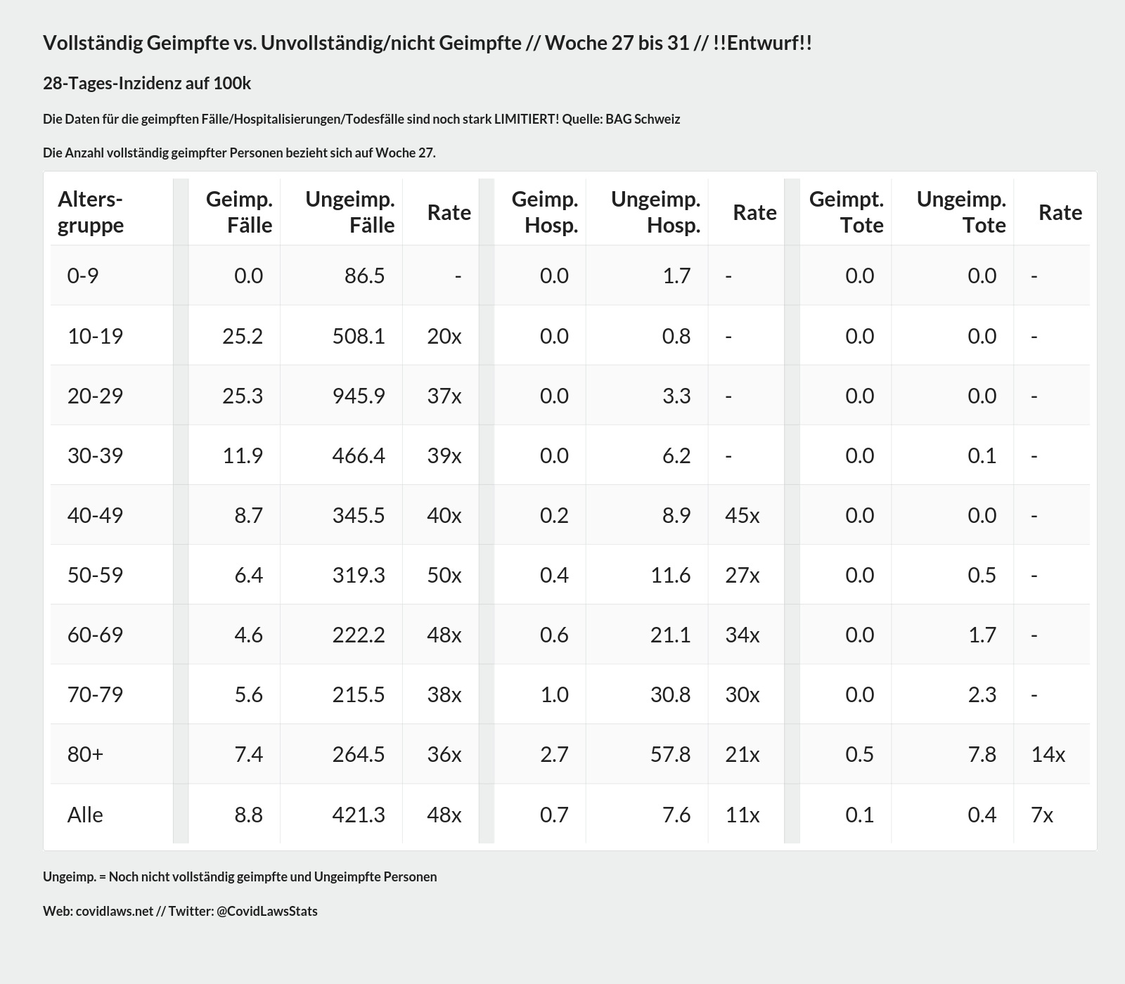
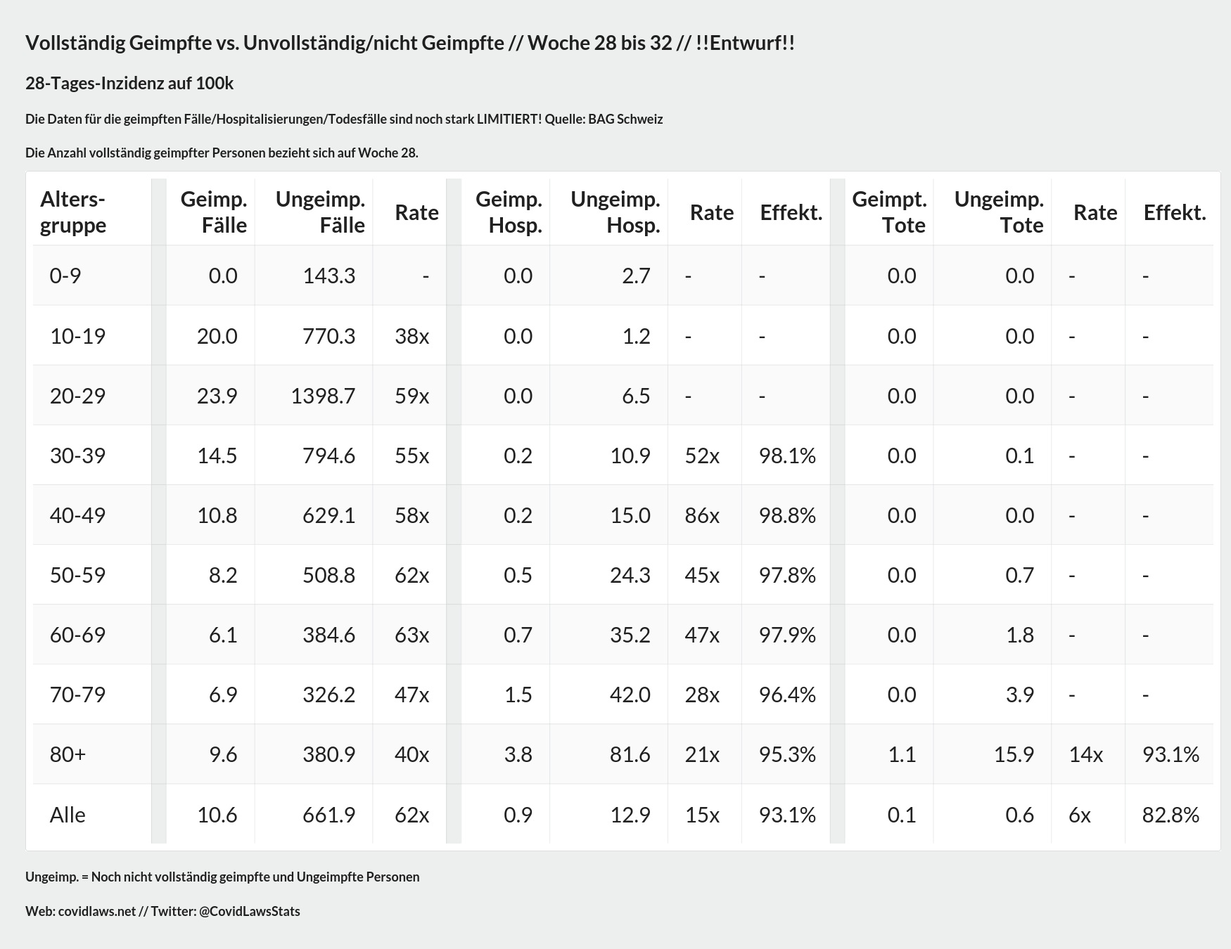
Update covidmeter

diff --git a/measuremeterdata/tasks/socialmedia/tweet_vacc.py b/measuremeterdata/tasks/socialmedia/tweet_vacc.py
@@ -473,104 +473,139 @@ def create_image(week):
         inz_nonvacchosp_alle = 100000 * nonvacchosp_tot_alle / tot_nonvacc_alle
 
         rel_hosp_0_9 = None
+        eff_hosp_0_9 = None
         try:
             rel_hosp_0_9 = inz_nonvacchosp_0_9 / inz_vacchosp_0_9
+            eff_hosp_0_9 = (inz_nonvacchosp_0_9 - inz_vacchosp_0_9) / inz_nonvacchosp_0_9 * 100
         except:
             pass
         if rel_hosp_0_9:
-            rel_hosp_10_19_str = "{0:.0f}".format(rel_hosp_0_9) + "x"
+            rel_hosp_0_9_str = "{0:.0f}".format(rel_hosp_0_9) + "x"
+            eff_hosp_0_9_str = "{0:.1f}".format(eff_hosp_0_9) + "%"
         else:
             rel_hosp_0_9_str = "-"
+            eff_hosp_0_9_str = "-"
 
         rel_hosp_10_19 = None
+        eff_hosp_10_19 = None
         try:
             rel_hosp_10_19 = inz_nonvacchosp_10_19 / inz_vacchosp_10_19
+            eff_hosp_10_19 = (inz_nonvacchosp_10_19 - inz_vacchosp_10_19) / inz_nonvacchosp_10_19 * 100
         except:
             pass
         if rel_hosp_10_19:
             rel_hosp_10_19_str = "{0:.0f}".format(rel_hosp_10_19) + "x"
+            eff_hosp_10_19_str = "{0:.1f}".format(eff_hosp_10_19) + "%"
         else:
             rel_hosp_10_19_str = "-"
+            eff_hosp_10_19_str = "-"
 
         rel_hosp_20_29 = None
+        eff_hosp_20_29 = None
         try:
             rel_hosp_20_29 = inz_nonvacchosp_20_29 / inz_vacchosp_20_29
+            eff_hosp_20_29 = (inz_nonvacchosp_20_29 - inz_vacchosp_20_29) / inz_nonvacchosp_20_29 * 100
         except:
             pass
         if rel_hosp_20_29:
             rel_hosp_20_29_str = "{0:.0f}".format(rel_hosp_20_29) + "x"
+            eff_hosp_20_29_str = "{0:.1f}".format(eff_hosp_20_29) + "%"
         else:
             rel_hosp_20_29_str = "-"
+            eff_hosp_20_29_str = "-"
 
         rel_hosp_30_39 = None
+        eff_hosp_30_39 = None
         try:
             rel_hosp_30_39 = inz_nonvacchosp_30_39 / inz_vacchosp_30_39
+            eff_hosp_30_39 = (inz_nonvacchosp_30_39 - inz_vacchosp_30_39) / inz_nonvacchosp_30_39 * 100
         except:
             pass
         if rel_hosp_30_39:
             rel_hosp_30_39_str = "{0:.0f}".format(rel_hosp_30_39) + "x"
+            eff_hosp_30_39_str = "{0:.1f}".format(eff_hosp_30_39) + "%"
         else:
             rel_hosp_30_39_str = "-"
+            eff_hosp_30_39_str = "-"
 
         rel_hosp_40_49 = None
+        eff_hosp_40_49 = None
         try:
             rel_hosp_40_49 = inz_nonvacchosp_40_49 / inz_vacchosp_40_49
+            eff_hosp_40_49 = (inz_nonvacchosp_40_49 - inz_vacchosp_40_49) / inz_nonvacchosp_40_49 * 100
         except:
             pass
         if rel_hosp_40_49:
             rel_hosp_40_49_str = "{0:.0f}".format(rel_hosp_40_49) + "x"
+            eff_hosp_40_49_str = "{0:.1f}".format(eff_hosp_40_49) + "%"
         else:
             rel_hosp_40_49_str = "-"
+            eff_hosp_40_49_str = "-"
 
         rel_hosp_50_59 = None
         try:
             rel_hosp_50_59 = inz_nonvacchosp_50_59 / inz_vacchosp_50_59
+            eff_hosp_50_59 = (inz_nonvacchosp_50_59 - inz_vacchosp_50_59) / inz_nonvacchosp_50_59 * 100
         except:
             pass
         if rel_hosp_50_59:
             rel_hosp_50_59_str = "{0:.0f}".format(rel_hosp_50_59) + "x"
+            eff_hosp_50_59_str = "{0:.1f}".format(eff_hosp_50_59) + "%"
         else:
             rel_hosp_50_59_str = "-"
+            eff_hosp_50_59_str = "-"
 
         rel_hosp_60_69 = None
         try:
             rel_hosp_60_69 = inz_nonvacchosp_60_69 / inz_vacchosp_60_69
+            eff_hosp_60_69 = (inz_nonvacchosp_60_69 - inz_vacchosp_60_69) / inz_nonvacchosp_60_69 * 100
         except:
             pass
         if rel_hosp_60_69:
             rel_hosp_60_69_str = "{0:.0f}".format(rel_hosp_60_69) + "x"
+            eff_hosp_60_69_str = "{0:.1f}".format(eff_hosp_60_69) + "%"
         else:
             rel_hosp_60_69_str = "-"
+            eff_hosp_60_69_str = "-"
 
         rel_hosp_70_79 = None
         try:
             rel_hosp_70_79 = inz_nonvacchosp_70_79 / inz_vacchosp_70_79
+            eff_hosp_70_79 = (inz_nonvacchosp_70_79 - inz_vacchosp_70_79) / inz_nonvacchosp_70_79 * 100
         except:
             pass
         if rel_hosp_70_79:
             rel_hosp_70_79_str = "{0:.0f}".format(rel_hosp_70_79) + "x"
+            eff_hosp_70_79_str = "{0:.1f}".format(eff_hosp_70_79) + "%"
         else:
             rel_hosp_70_79_str = "-"
+            eff_hosp_70_79_str = "-"
 
         rel_hosp_80plus = None
         try:
             rel_hosp_80plus = inz_nonvacchosp_80plus / inz_vacchosp_80plus
+            eff_hosp_80plus = (inz_nonvacchosp_80plus - inz_vacchosp_80plus) / inz_nonvacchosp_80plus * 100
         except:
             pass
         if rel_hosp_80plus:
             rel_hosp_80plus_str = "{0:.0f}".format(rel_hosp_80plus) + "x"
+            eff_hosp_80plus_str = "{0:.1f}".format(eff_hosp_80plus) + "%"
         else:
             rel_hosp_80plus_str = "-"
+            eff_hosp_80plus_str = "-"
 
         rel_hosp_alle = None
         try:
             rel_hosp_alle = inz_nonvacchosp_alle / inz_vacchosp_alle
+            eff_hosp_alle = (inz_nonvacchosp_alle - inz_vacchosp_alle) / inz_nonvacchosp_alle * 100
         except:
             pass
         if rel_hosp_alle:
             rel_hosp_alle_str = "{0:.0f}".format(rel_hosp_alle) + "x"
+            eff_hosp_alle_str = "{0:.1f}".format(eff_hosp_alle) + "%"
         else:
             rel_hosp_alle_str = "-"
+            eff_hosp_alle_str = "-"
 
         #Death ------------------------------------------------------------------------
 
@@ -632,102 +667,132 @@ def create_image(week):
         rel_death_0_9 = None
         try:
             rel_death_0_9 = inz_nonvaccdeath_0_9 / inz_vaccdeath_0_9
+            eff_death_0_9 = (inz_nonvaccdeath_0_9 - inz_vaccdeath_0_9) / inz_nonvaccdeath_0_9 * 100
         except:
             pass
         if rel_death_0_9:
-            rel_death_10_19_str = "{0:.0f}".format(rel_death_0_9) + "x"
+            rel_death_0_9_str = "{0:.0f}".format(rel_death_0_9) + "x"
+            eff_death_0_9_str = "{0:.1f}".format(eff_death_0_9) + "%"
         else:
             rel_death_0_9_str = "-"
+            eff_death_0_9_str = "-"
 
         rel_death_10_19 = None
         try:
             rel_death_10_19 = inz_nonvaccdeath_10_19 / inz_vaccdeath_10_19
+            eff_death_10_19 = (inz_nonvaccdeath_10_19 - inz_vaccdeath_10_19) / inz_nonvaccdeath_10_19 * 100
         except:
             pass
         if rel_death_10_19:
             rel_death_10_19_str = "{0:.0f}".format(rel_death_10_19) + "x"
+            eff_death_10_19_str = "{0:.1f}".format(eff_death_10_19) + "%"
         else:
             rel_death_10_19_str = "-"
+            eff_death_10_19_str = "-"
 
         rel_death_20_29 = None
         try:
             rel_death_20_29 = inz_nonvaccdeath_20_29 / inz_vaccdeath_20_29
+            eff_death_20_29 = (inz_nonvaccdeath_20_29 - inz_vaccdeath_20_29) / inz_nonvaccdeath_20_29 * 100
         except:
             pass
         if rel_death_20_29:
             rel_death_20_29_str = "{0:.0f}".format(rel_death_20_29) + "x"
+            eff_death_20_29_str = "{0:.1f}".format(eff_death_20_29) + "%"
         else:
             rel_death_20_29_str = "-"
+            eff_death_20_29_str = "-"
 
         rel_death_30_39 = None
         try:
             rel_death_30_39 = inz_nonvaccdeath_30_39 / inz_vaccdeath_30_39
+            eff_death_30_39 = (inz_nonvaccdeath_30_39 - inz_vaccdeath_30_39) / inz_nonvaccdeath_30_39 * 100
         except:
             pass
         if rel_death_30_39:
             rel_death_30_39_str = "{0:.0f}".format(rel_death_30_39) + "x"
+            eff_death_30_39_str = "{0:.1f}".format(eff_death_30_39) + "%"
         else:
             rel_death_30_39_str = "-"
+            eff_death_30_39_str = "-"
 
         rel_death_40_49 = None
         try:
             rel_death_40_49 = inz_nonvaccdeath_40_49 / inz_vaccdeath_40_49
+            eff_death_40_49 = (inz_nonvaccdeath_40_49 - inz_vaccdeath_40_49) / inz_nonvaccdeath_40_49 * 100
         except:
             pass
         if rel_death_40_49:
             rel_death_40_49_str = "{0:.0f}".format(rel_death_40_49) + "x"
+            eff_death_40_49_str = "{0:.1f}".format(eff_death_40_49) + "%"
         else:
             rel_death_40_49_str = "-"
+            eff_death_40_49_str = "-"
 
         rel_death_50_59 = None
         try:
             rel_death_50_59 = inz_nonvaccdeath_50_59 / inz_vaccdeath_50_59
+            eff_death_50_59 = (inz_nonvaccdeath_50_59 - inz_vaccdeath_50_59) / inz_nonvaccdeath_50_59 * 100
         except:
             pass
         if rel_death_50_59:
             rel_death_50_59_str = "{0:.0f}".format(rel_death_50_59) + "x"
+            eff_death_50_59_str = "{0:.1f}".format(eff_death_50_59) + "%"
         else:
             rel_death_50_59_str = "-"
+            eff_death_50_59_str = "-"
 
         rel_death_60_69 = None
         try:
             rel_death_60_69 = inz_nonvaccdeath_60_69 / inz_vaccdeath_60_69
+            eff_death_60_69 = (inz_nonvaccdeath_60_69 - inz_vaccdeath_60_69) / inz_nonvaccdeath_60_69 * 100
         except:
             pass
         if rel_death_60_69:
             rel_death_60_69_str = "{0:.0f}".format(rel_death_60_69) + "x"
+            eff_death_60_69_str = "{0:.1f}".format(eff_death_60_69) + "%"
         else:
             rel_death_60_69_str = "-"
+            eff_death_60_69_str = "-"
 
         rel_death_70_79 = None
         try:
             rel_death_70_79 = inz_nonvaccdeath_70_79 / inz_vaccdeath_70_79
+            eff_death_70_79 = (inz_nonvaccdeath_70_79 - inz_vaccdeath_70_79) / inz_nonvaccdeath_70_79 * 100
         except:
             pass
         if rel_death_70_79:
             rel_death_70_79_str = "{0:.0f}".format(rel_death_70_79) + "x"
+            eff_death_70_79_str = "{0:.1f}".format(eff_death_70_79) + "%"
         else:
             rel_death_70_79_str = "-"
+            eff_death_70_79_str = "-"
 
         rel_death_80plus = None
         try:
             rel_death_80plus = inz_nonvaccdeath_80plus / inz_vaccdeath_80plus
+            eff_death_80plus = (inz_nonvaccdeath_80plus - inz_vaccdeath_80plus) / inz_nonvaccdeath_80plus * 100
         except:
             pass
         if rel_death_80plus:
             rel_death_80plus_str = "{0:.0f}".format(rel_death_80plus) + "x"
+            eff_death_80plus_str = "{0:.1f}".format(eff_death_80plus) + "%"
         else:
             rel_death_80plus_str = "-"
+            eff_death_80plus_str = "-"
 
         rel_death_alle = None
         try:
             rel_death_alle = inz_nonvaccdeath_alle / inz_vaccdeath_alle
+            eff_death_alle = (inz_nonvaccdeath_alle - inz_vaccdeath_alle) / inz_nonvaccdeath_alle * 100
         except:
             pass
         if rel_death_alle:
             rel_death_alle_str = "{0:.0f}".format(rel_death_alle) + "x"
+            eff_death_alle_str = "{0:.1f}".format(eff_death_alle) + "%"
         else:
             rel_death_alle_str = "-"
+            eff_death_alle_str = "-"
 
         print("CSV:")
         print(f"Week {week -4} to {week}")
@@ -748,7 +813,7 @@ def create_image(week):
 
     html = f'<html><head><meta charset="UTF-8" /><link rel="stylesheet" href="https://cdnjs.cloudflare.com/ajax/libs/semantic-ui/2.4.1/semantic.min.css"/><script src="https://cdnjs.cloudflare.com/ajax/libs/semantic-ui/2.4.1/semantic.min.js"></script>' \
            '<style>table, th, td { padding: 10px; font-size: 14; }' \
-            '.columnl { float: left; width: 80px; } .columnr { float: left; width: 1500px; }/* Clear floats after the columns */ .row:after {   content: "";   display: table;   clear: both; }' \
+            '.columnl { float: left; width: 80px; } .columnr { float: left; width: 1600px; }/* Clear floats after the columns */ .row:after {   content: "";   display: table;   clear: both; }' \
             '#rotate-text { width: 45px; transform: rotate(90deg); }' \
     '.table td, .table th {'\
         'font-size: 30px;'\
@@ -762,7 +827,7 @@ def create_image(week):
            f'<h2>28-Tages-Inzidenz auf 100k</h2>' \
            '<h3>Die Daten für die geimpften Fälle/Hospitalisierungen/Todesfälle sind noch stark LIMITIERT! Quelle: BAG Schweiz</h3>' \
            f'<h3>Die Anzahl vollständig geimpfter Personen bezieht sich auf Woche {week-4}.</h3>' \
-           '<table class="ui celled table striped" style="width: 1500px;table-layout:fixed">' \
+           '<table class="ui celled table striped" style="width: 1700px;table-layout:fixed">' \
            '<colgroup>' \
            '<col style="width: 80px;">' \
            '<col style="width: 10px">' \
@@ -773,10 +838,12 @@ def create_image(week):
            '<col style="width: 60px">' \
            '<col style="width: 80px">' \
            '<col style="width: 50px">' \
+           '<col style="width: 60px">' \
            '<col style="width: 10px">' \
            '<col style="width: 60px">' \
            '<col style="width: 80px">' \
            '<col style="width: 50px">' \
+           '<col style="width: 60px">' \
            '</colgroup>' \
            '<tr><th>Alters- gruppe</th>' \
            '<th  style="background-color:#edefee;"></th>' \
@@ -787,26 +854,28 @@ def create_image(week):
            '<th class="right aligned">Geimp. Hosp.</th>' \
            '<th class="right aligned">Ungeimp. Hosp.</th>' \
            '<th class="right aligned">Rate</th>' \
+           '<th class="right aligned">Effekt.</th>' \
            '<th style="background-color:#edefee;"></th>' \
            '<th class="right aligned">Geimpt. Tote</th>' \
            '<th class="right aligned">Ungeimp. Tote</th>' \
            '<th class="right aligned">Rate</th>' \
+           '<th class="right aligned">Effekt.</th>' \
            '</tr>' \
-           f'<tr><td>0-9</td><td style="background-color:#edefee;"></td><td class="right aligned">{"{:10.1f}".format(inz_vacccases_0_9)}</td><td class="right aligned">{"{:10.1f}".format(inz_nonvacccases_0_9)}</td><td class="right aligned">{rel_cases_0_9_str}</td><td style="background-color:#edefee;"></td><td class="right aligned">{"{:10.1f}".format(inz_vacchosp_0_9)}</td><td class="right aligned">{"{:10.1f}".format(inz_nonvacchosp_0_9)}</td><td>{rel_hosp_0_9_str}</td><td style="background-color:#edefee;"></td><td class="right aligned">{"{:10.1f}".format(inz_vaccdeath_0_9)}</td><td class="right aligned">{"{:10.1f}".format(inz_nonvaccdeath_0_9)}</td><td>{rel_death_0_9_str}</td></tr>' \
-           f'<tr><td>10-19</td><td style="background-color:#edefee;"></td><td class="right aligned">{"{:10.1f}".format(inz_vacccases_10_19)}</td><td class="right aligned">{"{:10.1f}".format(inz_nonvacccases_10_19)}</td><td class="right aligned">{rel_cases_10_19_str}</td><td style="background-color:#edefee;"></td><td class="right aligned">{"{:10.1f}".format(inz_vacchosp_10_19)}</td><td class="right aligned">{"{:10.1f}".format(inz_nonvacchosp_10_19)}</td><td>{rel_hosp_10_19_str}</td><td style="background-color:#edefee;"></td><td class="right aligned">{"{:10.1f}".format(inz_vaccdeath_10_19)}</td><td class="right aligned">{"{:10.1f}".format(inz_nonvaccdeath_10_19)}</td><td>{rel_death_10_19_str}</td></tr>' \
-           f'<tr><td>20-29</td><td style="background-color:#edefee;"></td><td class="right aligned">{"{:10.1f}".format(inz_vacccases_20_29)}</td><td class="right aligned">{"{:10.1f}".format(inz_nonvacccases_20_29)}</td><td class="right aligned">{rel_cases_20_29_str}</td><td style="background-color:#edefee;"></td><td class="right aligned">{"{:10.1f}".format(inz_vacchosp_20_29)}</td><td class="right aligned">{"{:10.1f}".format(inz_nonvacchosp_20_29)}</td><td>{rel_hosp_20_29_str}</td><td style="background-color:#edefee;"></td><td class="right aligned">{"{:10.1f}".format(inz_vaccdeath_20_29)}</td><td class="right aligned">{"{:10.1f}".format(inz_nonvaccdeath_20_29)}</td><td>{rel_death_20_29_str}</td></tr>' \
-           f'<tr><td>30-39</td><td style="background-color:#edefee;"></td><td class="right aligned">{"{:10.1f}".format(inz_vacccases_30_39)}</td><td class="right aligned">{"{:10.1f}".format(inz_nonvacccases_30_39)}</td><td class="right aligned">{rel_cases_30_39_str}</td><td style="background-color:#edefee;"></td><td class="right aligned">{"{:10.1f}".format(inz_vacchosp_30_39)}</td><td class="right aligned">{"{:10.1f}".format(inz_nonvacchosp_30_39)}</td><td>{rel_hosp_30_39_str}</td><td style="background-color:#edefee;"></td><td class="right aligned">{"{:10.1f}".format(inz_vaccdeath_30_39)}</td><td class="right aligned">{"{:10.1f}".format(inz_nonvaccdeath_30_39)}</td><td>{rel_death_30_39_str}</td></tr>' \
-           f'<tr><td>40-49</td><td style="background-color:#edefee;"></td><td class="right aligned">{"{:10.1f}".format(inz_vacccases_40_49)}</td><td class="right aligned">{"{:10.1f}".format(inz_nonvacccases_40_49)}</td><td class="right aligned">{rel_cases_40_49_str}</td><td style="background-color:#edefee;"></td><td class="right aligned">{"{:10.1f}".format(inz_vacchosp_40_49)}</td><td class="right aligned">{"{:10.1f}".format(inz_nonvacchosp_40_49)}</td><td>{rel_hosp_40_49_str}</td><td style="background-color:#edefee;"></td><td class="right aligned">{"{:10.1f}".format(inz_vaccdeath_40_49)}</td><td class="right aligned">{"{:10.1f}".format(inz_nonvaccdeath_40_49)}</td><td>{rel_death_40_49_str}</td></tr>' \
-           f'<tr><td>50-59</td><td style="background-color:#edefee;"></td><td class="right aligned">{"{:10.1f}".format(inz_vacccases_50_59)}</td><td class="right aligned">{"{:10.1f}".format(inz_nonvacccases_50_59)}</td><td class="right aligned">{rel_cases_50_59_str}</td><td style="background-color:#edefee;"></td><td class="right aligned">{"{:10.1f}".format(inz_vacchosp_50_59)}</td><td class="right aligned">{"{:10.1f}".format(inz_nonvacchosp_50_59)}</td><td>{rel_hosp_50_59_str}</td><td style="background-color:#edefee;"></td><td class="right aligned">{"{:10.1f}".format(inz_vaccdeath_50_59)}</td><td class="right aligned">{"{:10.1f}".format(inz_nonvaccdeath_50_59)}</td><td>{rel_death_50_59_str}</td></tr>' \
-           f'<tr><td>60-69</td><td style="background-color:#edefee;"></td><td class="right aligned">{"{:10.1f}".format(inz_vacccases_60_69)}</td><td class="right aligned">{"{:10.1f}".format(inz_nonvacccases_60_69)}</td><td class="right aligned">{rel_cases_60_69_str}</td><td style="background-color:#edefee;"></td><td class="right aligned">{"{:10.1f}".format(inz_vacchosp_60_69)}</td><td class="right aligned">{"{:10.1f}".format(inz_nonvacchosp_60_69)}</td><td>{rel_hosp_60_69_str}</td><td style="background-color:#edefee;"></td><td class="right aligned">{"{:10.1f}".format(inz_vaccdeath_60_69)}</td><td class="right aligned">{"{:10.1f}".format(inz_nonvaccdeath_60_69)}</td><td>{rel_death_60_69_str}</td></tr>' \
-           f'<tr><td>70-79</td><td style="background-color:#edefee;"></td><td class="right aligned">{"{:10.1f}".format(inz_vacccases_70_79)}</td><td class="right aligned">{"{:10.1f}".format(inz_nonvacccases_70_79)}</td><td class="right aligned">{rel_cases_70_79_str}</td><td style="background-color:#edefee;"></td><td class="right aligned">{"{:10.1f}".format(inz_vacchosp_70_79)}</td><td class="right aligned">{"{:10.1f}".format(inz_nonvacchosp_70_79)}</td><td>{rel_hosp_70_79_str}</td><td style="background-color:#edefee;"></td><td class="right aligned">{"{:10.1f}".format(inz_vaccdeath_70_79)}</td><td class="right aligned">{"{:10.1f}".format(inz_nonvaccdeath_70_79)}</td><td>{rel_death_70_79_str}</td></tr>' \
-           f'<tr><td>80+</td><td style="background-color:#edefee;"></td><td class="right aligned">{"{:10.1f}".format(inz_vacccases_80plus)}</td><td class="right aligned">{"{:10.1f}".format(inz_nonvacccases_80plus)}</td><td class="right aligned">{rel_cases_80plus_str}</td><td style="background-color:#edefee;"></td><td class="right aligned">{"{:10.1f}".format(inz_vacchosp_80plus)}</td><td class="right aligned">{"{:10.1f}".format(inz_nonvacchosp_80plus)}</td><td>{rel_hosp_80plus_str}</td><td style="background-color:#edefee;"></td><td class="right aligned">{"{:10.1f}".format(inz_vaccdeath_80plus)}</td><td class="right aligned">{"{:10.1f}".format(inz_nonvaccdeath_80plus)}</td><td>{rel_death_80plus_str}</td></tr>' \
-           f'<tr><td>Alle</td><td style="background-color:#edefee;"></td><td class="right aligned">{"{:10.1f}".format(inz_vacccases_alle)}</td><td class="right aligned">{"{:10.1f}".format(inz_nonvacccases_alle)}</td><td class="right aligned">{rel_cases_alle_str}</td><td style="background-color:#edefee;"></td><td class="right aligned">{"{:10.1f}".format(inz_vacchosp_alle)}</td><td class="right aligned">{"{:10.1f}".format(inz_nonvacchosp_alle)}</td><td>{rel_hosp_alle_str}</td><td style="background-color:#edefee;"></td><td class="right aligned">{"{:10.1f}".format(inz_vaccdeath_alle)}</td><td class="right aligned">{"{:10.1f}".format(inz_nonvaccdeath_alle)}</td><td>{rel_death_alle_str}</td></tr>'
+           f'<tr><td>0-9</td><td style="background-color:#edefee;"></td><td class="right aligned">{"{:10.1f}".format(inz_vacccases_0_9)}</td><td class="right aligned">{"{:10.1f}".format(inz_nonvacccases_0_9)}</td><td class="right aligned">{rel_cases_0_9_str}</td><td style="background-color:#edefee;"></td><td class="right aligned">{"{:10.1f}".format(inz_vacchosp_0_9)}</td><td class="right aligned">{"{:10.1f}".format(inz_nonvacchosp_0_9)}</td><td>{rel_hosp_0_9_str}</td><td>{eff_hosp_0_9_str}</td><td style="background-color:#edefee;"></td><td class="right aligned">{"{:10.1f}".format(inz_vaccdeath_0_9)}</td><td class="right aligned">{"{:10.1f}".format(inz_nonvaccdeath_0_9)}</td><td>{rel_death_0_9_str}</td><td>{eff_death_0_9_str}</td></tr>' \
+           f'<tr><td>10-19</td><td style="background-color:#edefee;"></td><td class="right aligned">{"{:10.1f}".format(inz_vacccases_10_19)}</td><td class="right aligned">{"{:10.1f}".format(inz_nonvacccases_10_19)}</td><td class="right aligned">{rel_cases_10_19_str}</td><td style="background-color:#edefee;"></td><td class="right aligned">{"{:10.1f}".format(inz_vacchosp_10_19)}</td><td class="right aligned">{"{:10.1f}".format(inz_nonvacchosp_10_19)}</td><td>{rel_hosp_10_19_str}</td><td>{eff_hosp_10_19_str}</td><td style="background-color:#edefee;"></td><td class="right aligned">{"{:10.1f}".format(inz_vaccdeath_10_19)}</td><td class="right aligned">{"{:10.1f}".format(inz_nonvaccdeath_10_19)}</td><td>{rel_death_10_19_str}</td><td>{eff_death_10_19_str}</td></tr>' \
+           f'<tr><td>20-29</td><td style="background-color:#edefee;"></td><td class="right aligned">{"{:10.1f}".format(inz_vacccases_20_29)}</td><td class="right aligned">{"{:10.1f}".format(inz_nonvacccases_20_29)}</td><td class="right aligned">{rel_cases_20_29_str}</td><td style="background-color:#edefee;"></td><td class="right aligned">{"{:10.1f}".format(inz_vacchosp_20_29)}</td><td class="right aligned">{"{:10.1f}".format(inz_nonvacchosp_20_29)}</td><td>{rel_hosp_20_29_str}</td><td>{eff_hosp_20_29_str}</td><td style="background-color:#edefee;"></td><td class="right aligned">{"{:10.1f}".format(inz_vaccdeath_20_29)}</td><td class="right aligned">{"{:10.1f}".format(inz_nonvaccdeath_20_29)}</td><td>{rel_death_20_29_str}</td><td>{eff_death_20_29_str}</td></tr>' \
+           f'<tr><td>30-39</td><td style="background-color:#edefee;"></td><td class="right aligned">{"{:10.1f}".format(inz_vacccases_30_39)}</td><td class="right aligned">{"{:10.1f}".format(inz_nonvacccases_30_39)}</td><td class="right aligned">{rel_cases_30_39_str}</td><td style="background-color:#edefee;"></td><td class="right aligned">{"{:10.1f}".format(inz_vacchosp_30_39)}</td><td class="right aligned">{"{:10.1f}".format(inz_nonvacchosp_30_39)}</td><td>{rel_hosp_30_39_str}</td><td>{eff_hosp_30_39_str}</td><td style="background-color:#edefee;"></td><td class="right aligned">{"{:10.1f}".format(inz_vaccdeath_30_39)}</td><td class="right aligned">{"{:10.1f}".format(inz_nonvaccdeath_30_39)}</td><td>{rel_death_30_39_str}</td><td>{eff_death_30_39_str}</td></tr>' \
+           f'<tr><td>40-49</td><td style="background-color:#edefee;"></td><td class="right aligned">{"{:10.1f}".format(inz_vacccases_40_49)}</td><td class="right aligned">{"{:10.1f}".format(inz_nonvacccases_40_49)}</td><td class="right aligned">{rel_cases_40_49_str}</td><td style="background-color:#edefee;"></td><td class="right aligned">{"{:10.1f}".format(inz_vacchosp_40_49)}</td><td class="right aligned">{"{:10.1f}".format(inz_nonvacchosp_40_49)}</td><td>{rel_hosp_40_49_str}</td><td>{eff_hosp_40_49_str}</td><td style="background-color:#edefee;"></td><td class="right aligned">{"{:10.1f}".format(inz_vaccdeath_40_49)}</td><td class="right aligned">{"{:10.1f}".format(inz_nonvaccdeath_40_49)}</td><td>{rel_death_40_49_str}</td><td>{eff_death_40_49_str}</td></tr>' \
+           f'<tr><td>50-59</td><td style="background-color:#edefee;"></td><td class="right aligned">{"{:10.1f}".format(inz_vacccases_50_59)}</td><td class="right aligned">{"{:10.1f}".format(inz_nonvacccases_50_59)}</td><td class="right aligned">{rel_cases_50_59_str}</td><td style="background-color:#edefee;"></td><td class="right aligned">{"{:10.1f}".format(inz_vacchosp_50_59)}</td><td class="right aligned">{"{:10.1f}".format(inz_nonvacchosp_50_59)}</td><td>{rel_hosp_50_59_str}</td><td>{eff_hosp_50_59_str}</td><td style="background-color:#edefee;"></td><td class="right aligned">{"{:10.1f}".format(inz_vaccdeath_50_59)}</td><td class="right aligned">{"{:10.1f}".format(inz_nonvaccdeath_50_59)}</td><td>{rel_death_50_59_str}</td><td>{eff_death_50_59_str}</td></tr>' \
+           f'<tr><td>60-69</td><td style="background-color:#edefee;"></td><td class="right aligned">{"{:10.1f}".format(inz_vacccases_60_69)}</td><td class="right aligned">{"{:10.1f}".format(inz_nonvacccases_60_69)}</td><td class="right aligned">{rel_cases_60_69_str}</td><td style="background-color:#edefee;"></td><td class="right aligned">{"{:10.1f}".format(inz_vacchosp_60_69)}</td><td class="right aligned">{"{:10.1f}".format(inz_nonvacchosp_60_69)}</td><td>{rel_hosp_60_69_str}</td><td>{eff_hosp_60_69_str}</td><td style="background-color:#edefee;"></td><td class="right aligned">{"{:10.1f}".format(inz_vaccdeath_60_69)}</td><td class="right aligned">{"{:10.1f}".format(inz_nonvaccdeath_60_69)}</td><td>{rel_death_60_69_str}</td><td>{eff_death_60_69_str}</td></tr>' \
+           f'<tr><td>70-79</td><td style="background-color:#edefee;"></td><td class="right aligned">{"{:10.1f}".format(inz_vacccases_70_79)}</td><td class="right aligned">{"{:10.1f}".format(inz_nonvacccases_70_79)}</td><td class="right aligned">{rel_cases_70_79_str}</td><td style="background-color:#edefee;"></td><td class="right aligned">{"{:10.1f}".format(inz_vacchosp_70_79)}</td><td class="right aligned">{"{:10.1f}".format(inz_nonvacchosp_70_79)}</td><td>{rel_hosp_70_79_str}</td><td>{eff_hosp_70_79_str}</td><td style="background-color:#edefee;"></td><td class="right aligned">{"{:10.1f}".format(inz_vaccdeath_70_79)}</td><td class="right aligned">{"{:10.1f}".format(inz_nonvaccdeath_70_79)}</td><td>{rel_death_70_79_str}</td><td>{eff_death_70_79_str}</td></tr>' \
+           f'<tr><td>80+</td><td style="background-color:#edefee;"></td><td class="right aligned">{"{:10.1f}".format(inz_vacccases_80plus)}</td><td class="right aligned">{"{:10.1f}".format(inz_nonvacccases_80plus)}</td><td class="right aligned">{rel_cases_80plus_str}</td><td style="background-color:#edefee;"></td><td class="right aligned">{"{:10.1f}".format(inz_vacchosp_80plus)}</td><td class="right aligned">{"{:10.1f}".format(inz_nonvacchosp_80plus)}</td><td>{rel_hosp_80plus_str}</td><td>{eff_hosp_80plus_str}</td><td style="background-color:#edefee;"></td><td class="right aligned">{"{:10.1f}".format(inz_vaccdeath_80plus)}</td><td class="right aligned">{"{:10.1f}".format(inz_nonvaccdeath_80plus)}</td><td>{rel_death_80plus_str}</td><td>{eff_death_80plus_str}</td></tr>' \
+           f'<tr><td>Alle</td><td style="background-color:#edefee;"></td><td class="right aligned">{"{:10.1f}".format(inz_vacccases_alle)}</td><td class="right aligned">{"{:10.1f}".format(inz_nonvacccases_alle)}</td><td class="right aligned">{rel_cases_alle_str}</td><td style="background-color:#edefee;"></td><td class="right aligned">{"{:10.1f}".format(inz_vacchosp_alle)}</td><td class="right aligned">{"{:10.1f}".format(inz_nonvacchosp_alle)}</td><td>{rel_hosp_alle_str}</td><td>{eff_hosp_alle_str}</td><td style="background-color:#edefee;"></td><td class="right aligned">{"{:10.1f}".format(inz_vaccdeath_alle)}</td><td class="right aligned">{"{:10.1f}".format(inz_nonvaccdeath_alle)}</td><td>{rel_death_alle_str}</td><td>{eff_death_alle_str}</td></tr>'
 
     html += f'</table><h3>Ungeimp. = Noch nicht vollständig geimpfte und Ungeimpfte Personen</h3><h3>Web: covidlaws.net // Twitter: @CovidLawsStats</h3></td></tr></table> </body></html>'
 
     print(html)
 
-    options = {'width': '1600', 'height': '1350', 'encoding': "UTF-8", }
+    options = {'width': '1750', 'height': '1350', 'encoding': "UTF-8", }
     imgkit.from_string(html, "/tmp/out_image.jpg", options=options)
 
